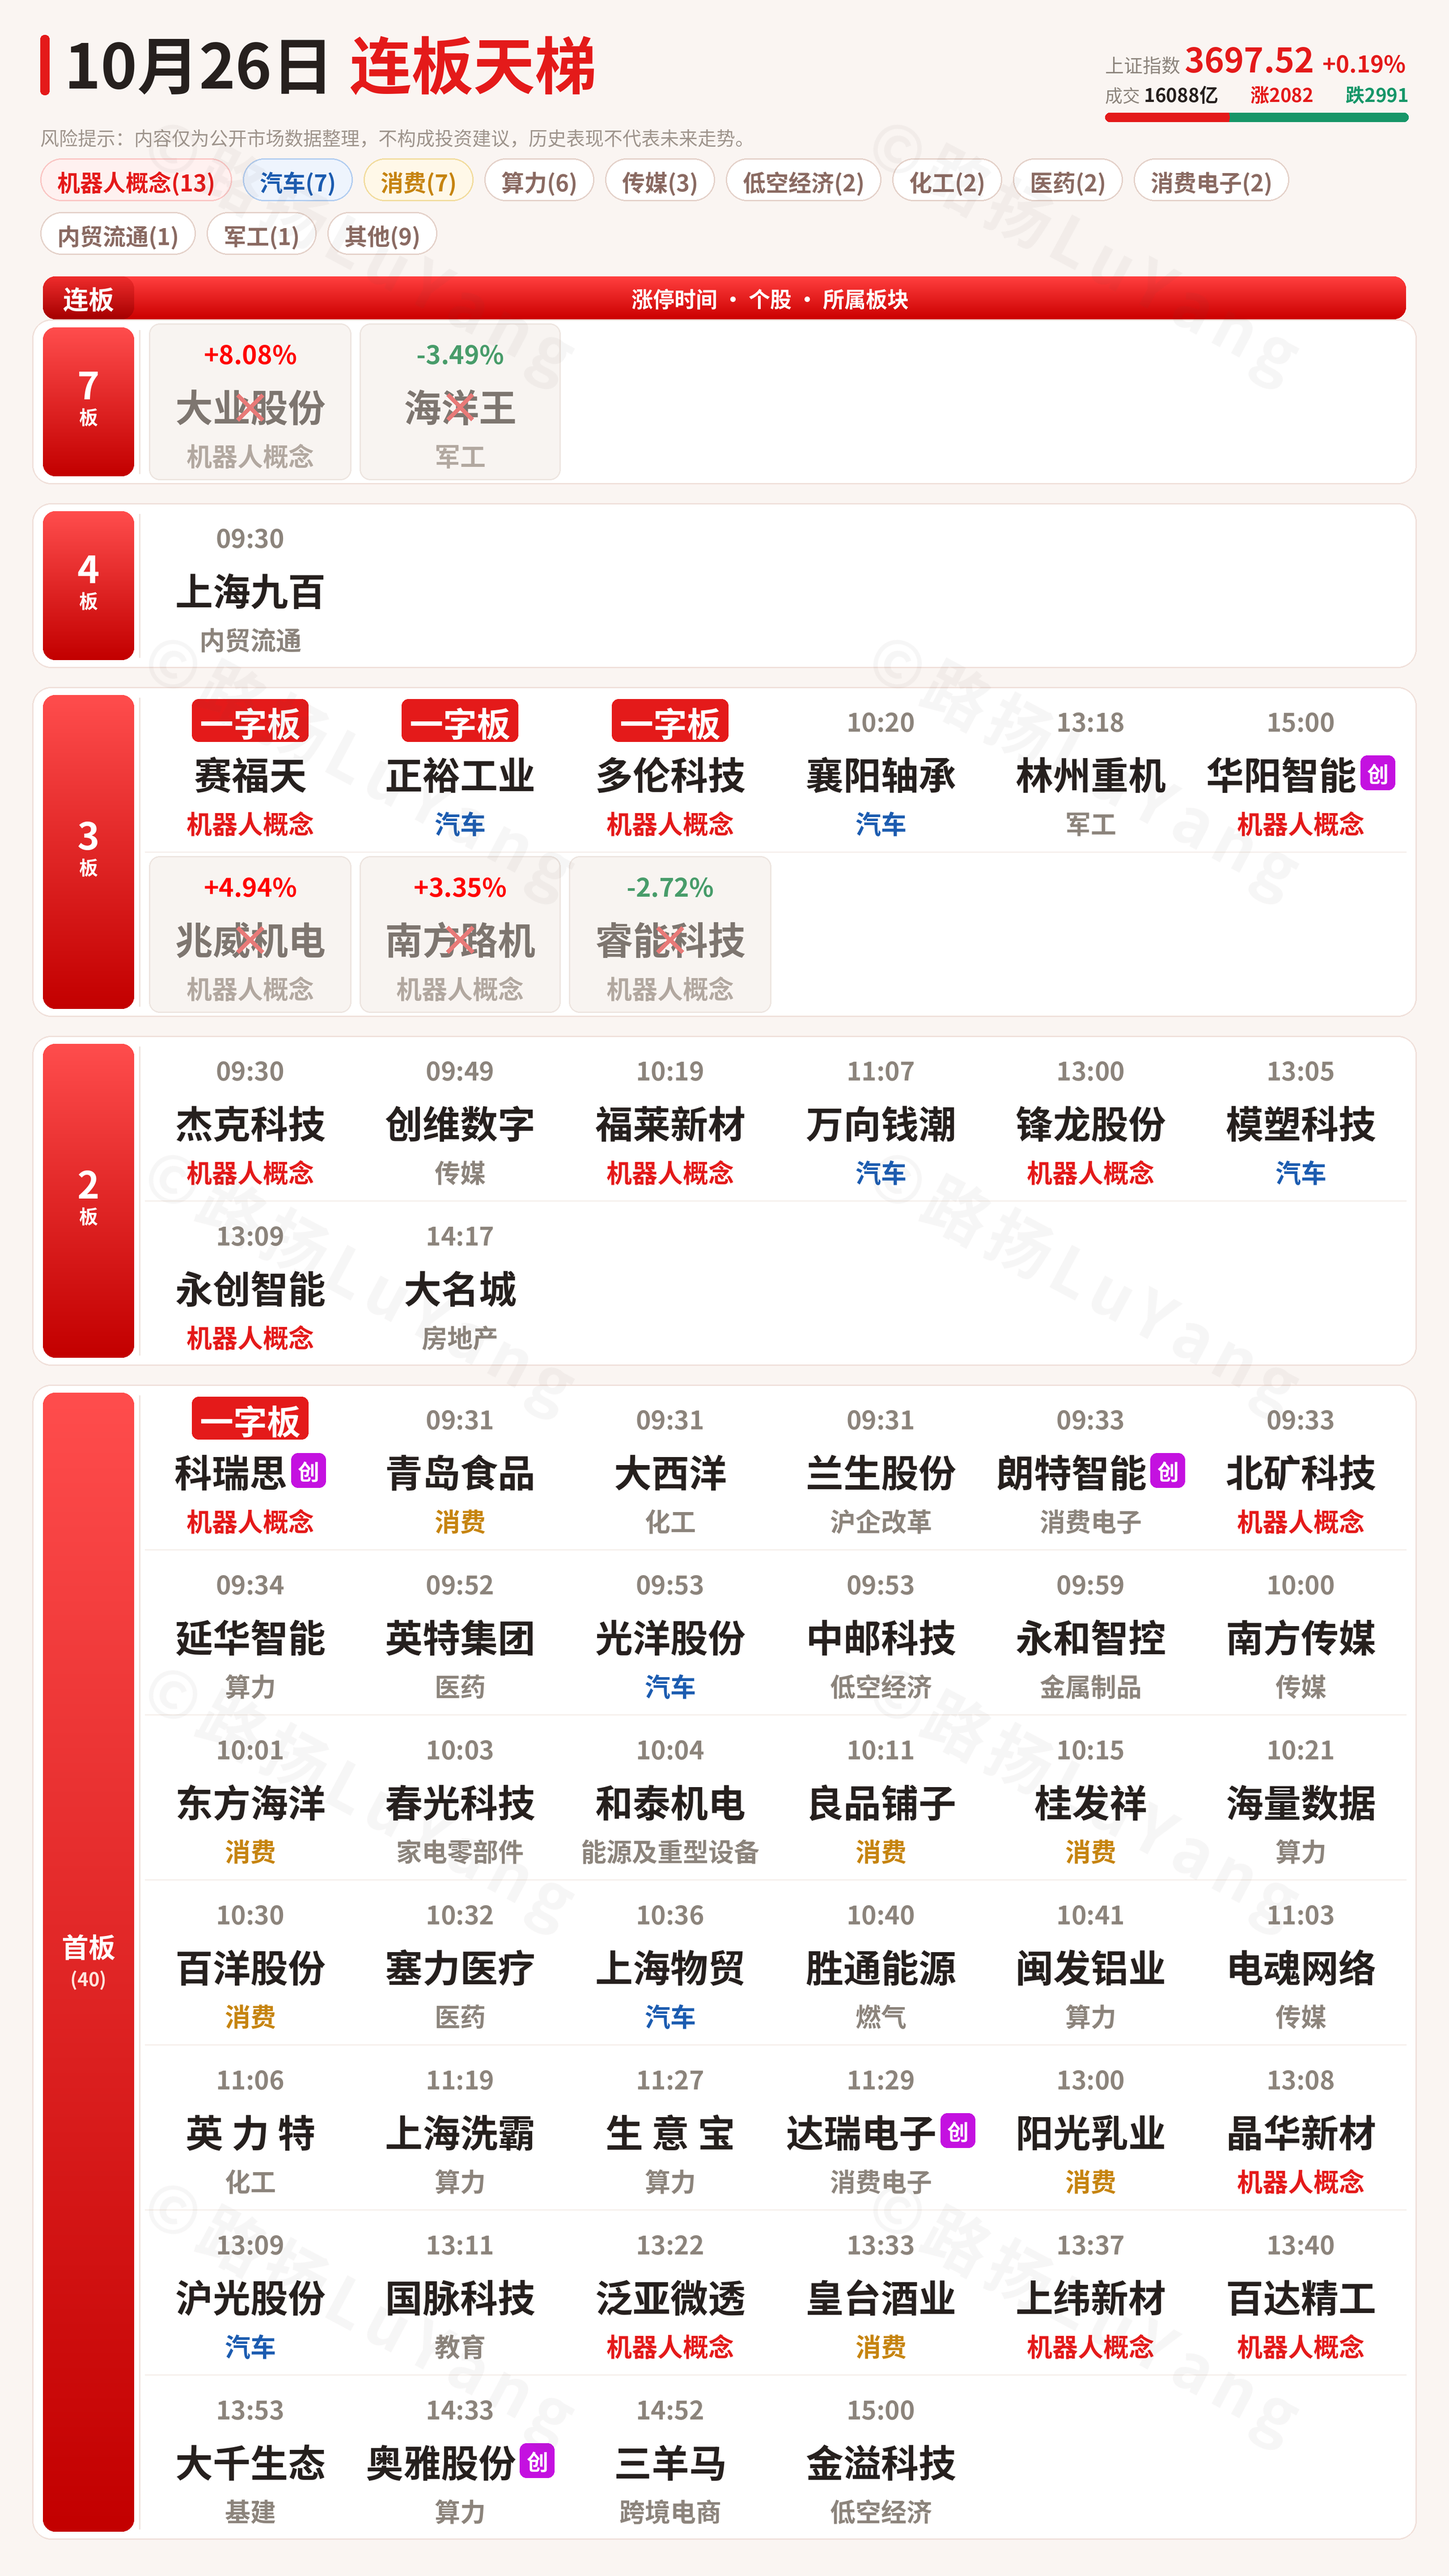
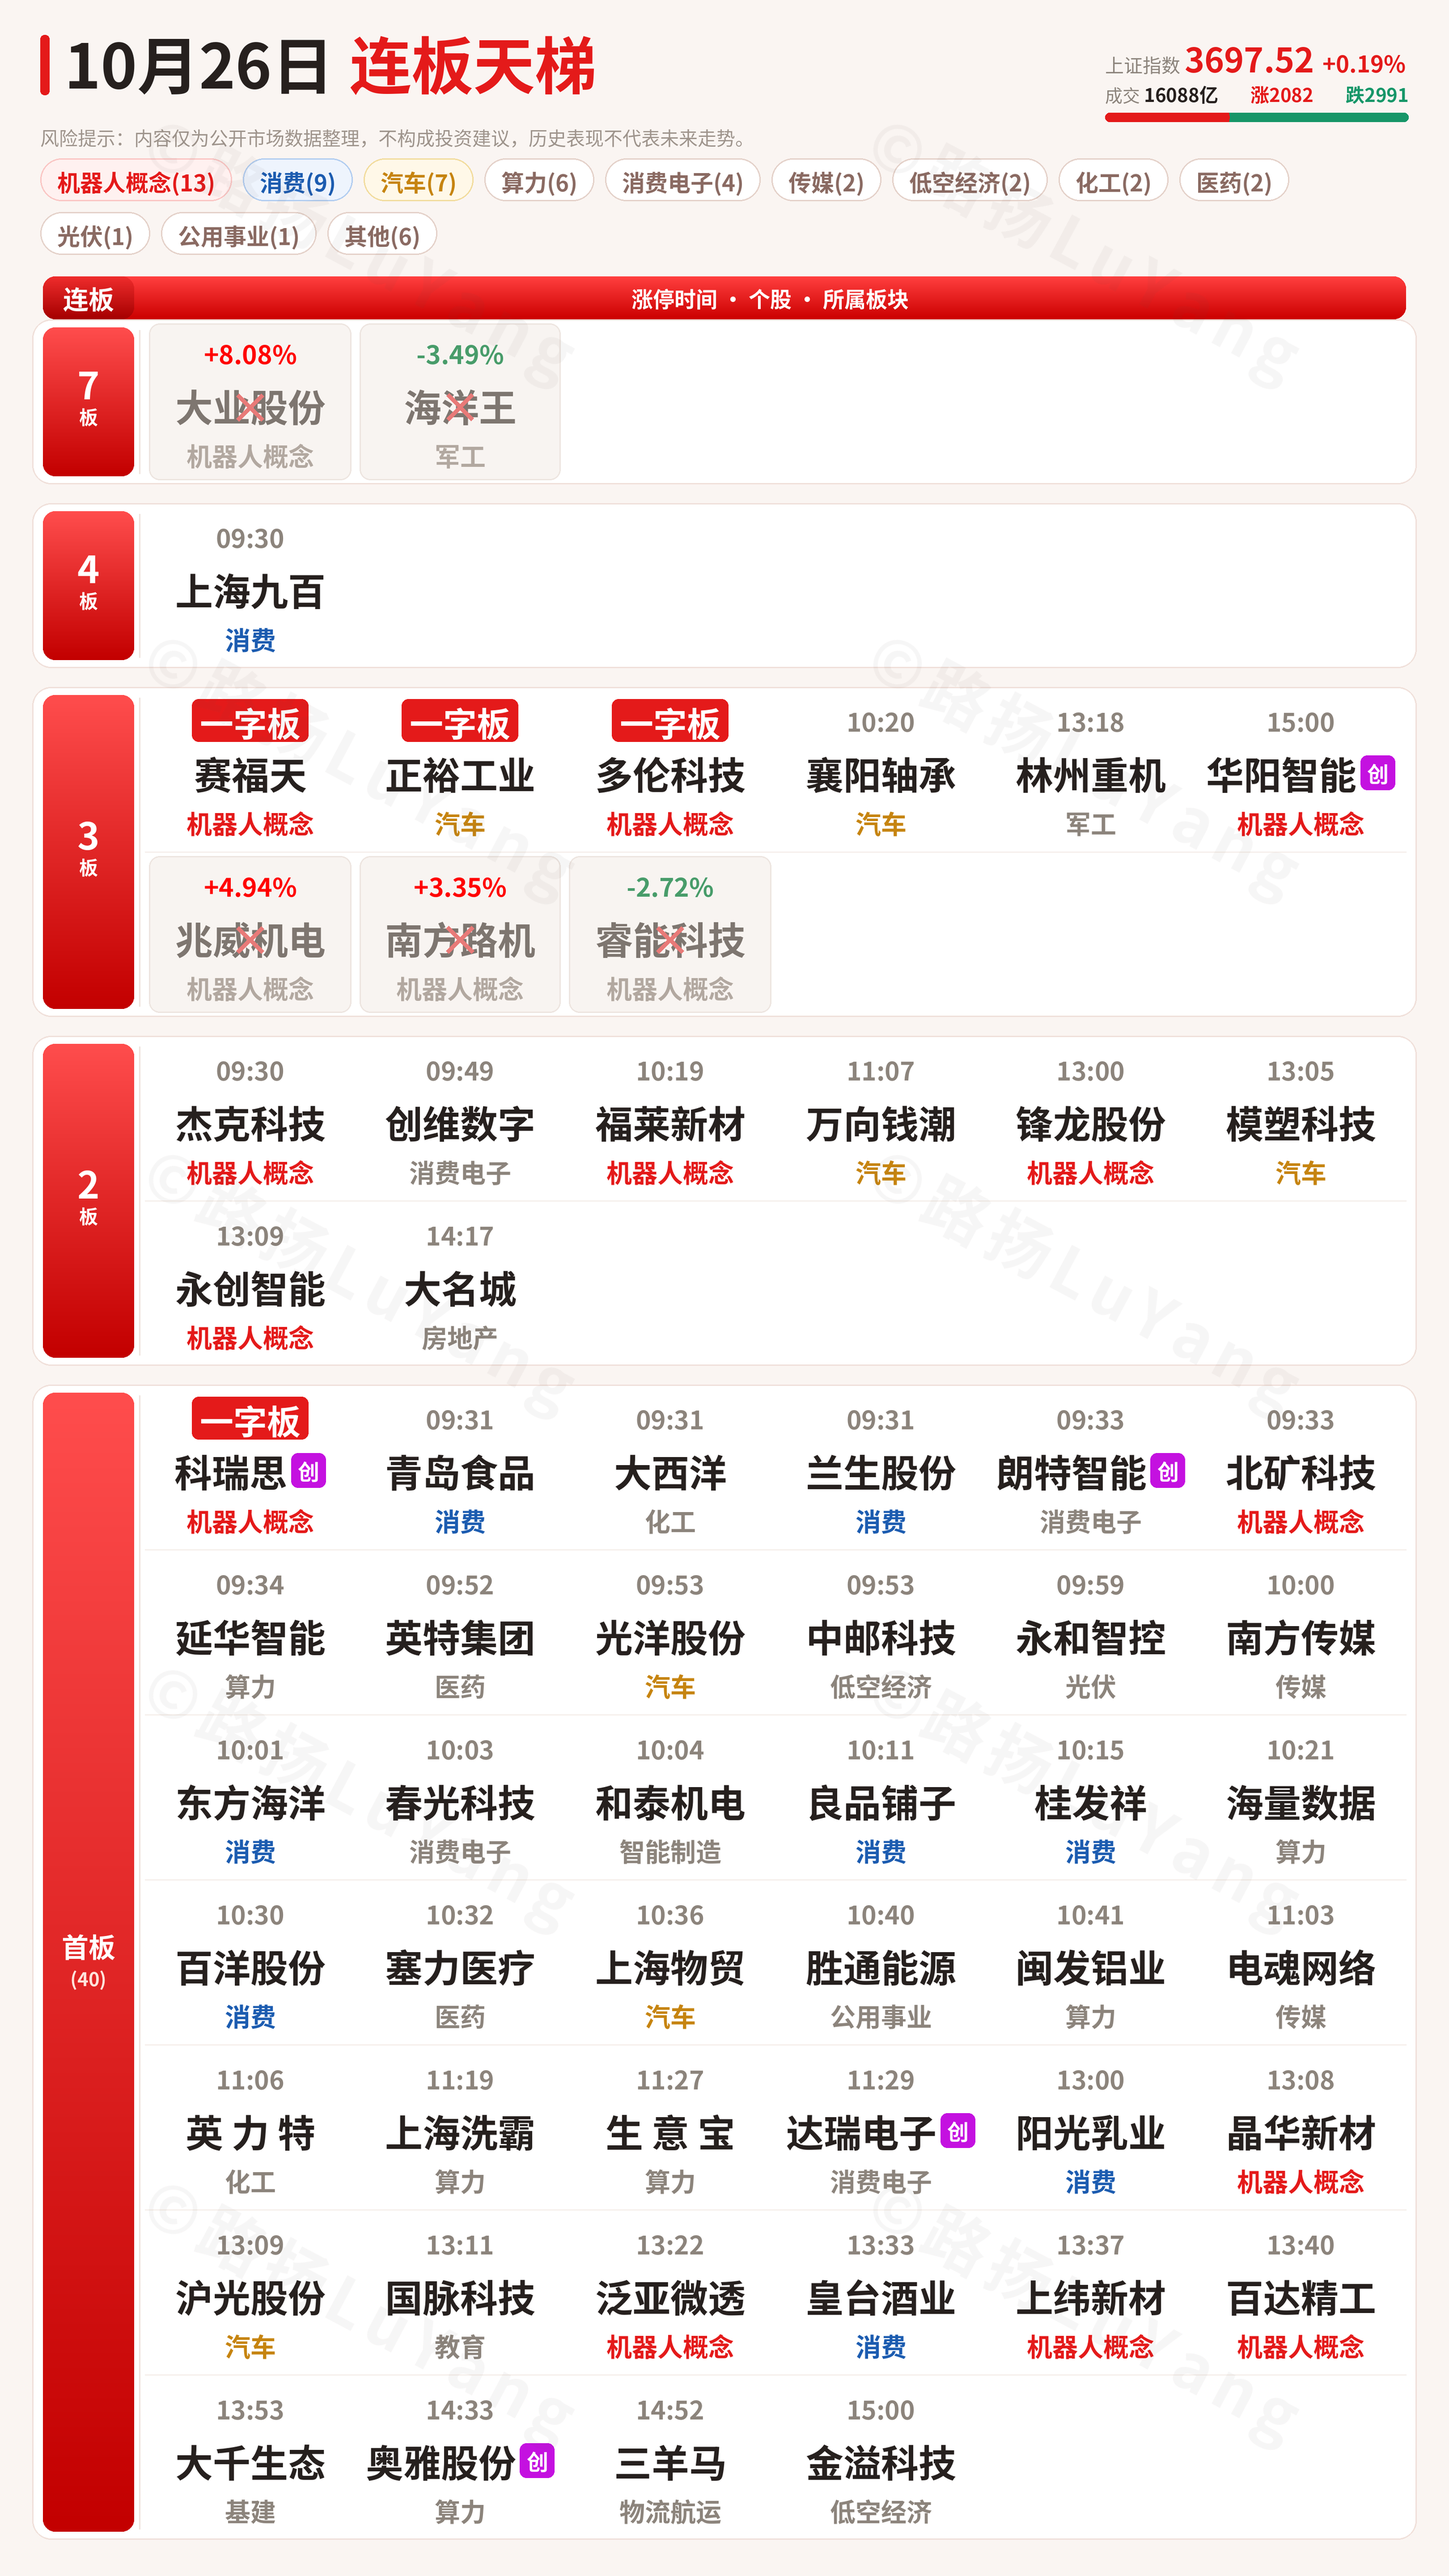
feat: update workspace

diff --git a/ladder_extract/ladder/daily_ladder.py b/ladder_extract/ladder/daily_ladder.py
@@ -300,7 +300,7 @@ def _is_blocked(nm):
 # 东财兜底用的「大伞」概念：这类概念会被大量个股共享、共现次数天然很高，
 # 但并不代表个股当日涨停原因，兜底选标签时降级处理
 FALLBACK_UMBRELLA = {
-    "电子", "机械设备", "人工智能", "新能源车", "消费", "科技", "物联网",
+    "电子", "机械设备", "人工智能", "新能源车", "科技", "物联网",
     "计算机", "计算机设备", "通用设备", "基础化工", "医药生物",
 }
 
@@ -310,6 +310,7 @@ THEME_OVERRIDE = {
     "001696": "低空经济",     # 宗申动力：低空经济核心（无人机/eVTOL 动力）
     "000099": "低空经济",     # 中信海直：低空经济（通航运营）龙头
     "601606": "军工",         # 长城军工：军工主线
+    "002724": "军工",         # 海洋王：特种照明（军工/核电照明）
 }
 
 
@@ -437,6 +438,46 @@ REASON_RULES = [
     (("DeepSeek概念", "算力概念", "光通信模块", "CPO概念"), "算力"),
 ]
 
+# ---- 细分概念/行业名 → 板块规范名（长尾补全）----
+# 同花顺「涨停原因」和东财概念里有大量一次性细分标签（MLCC粉体、空冷器、
+# 复合调味品……），直接展示会让每天板块口径不一致；这里把它们收敛到固定板块。
+# 注意：本表追加在原表之后，命中顺序仍以原表（更具体的主线）优先。
+REASON_RULES += [
+    (("TOPCon", "BC电池", "HJT", "钙钛矿", "异质结"), "光伏"),
+    (("快递", "铁路运输", "公路运输", "航空运输", "快递概念"), "物流航运"),
+    # 消费细项：把食品/零售/服饰等长尾归到消费，避免散落成一次性标签
+    (("调味品", "预制菜", "烘焙", "乳业", "零食", "乳品", "肉鸡", "生猪",
+      "养殖", "饲料", "农产品", "番茄", "甜蛋白", "餐厨", "日用陶瓷",
+      "小家电", "智能睡眠", "羊绒", "羊毛", "职业装", "服装", "纺织",
+      "零售", "商贸", "商业百货", "免税", "内贸流通", "首发经济"), "消费"),
+    (("家用电器", "家电零部件", "小米概念", "智能家居", "厨电"), "消费电子"),
+    (("MLCC", "电容", "电阻", "电感", "晶圆", "封装测试", "分立器件",
+      "碳化硅", "氮化镓", "存储芯片", "光刻", "被动元件"), "半导体"),
+    (("空冷", "液冷", "数据中心", "服务器", "光通信", "IDC", "算力租赁"), "算力"),
+    (("数据库", "数据确权", "数据资产"), "数据要素"),
+    (("减速器", "丝杠", "谐波", "空心杯", "精密传动"), "机器人概念"),
+    (("医美", "医疗美容", "抗癌", "质谱", "病理", "诊断", "中药", "疫苗"), "医药"),
+    (("染料", "中间体", "电子胶", "胶粘", "涂料", "氟化工", "磷化工", "钛白粉"), "化工"),
+    (("负极", "正极", "隔膜", "电解液", "锂电", "固态电池"), "新能源车"),
+    (("指纹识别", "光学元件", "镜头", "面板"), "消费电子"),
+    (("矿山装备", "深冷", "重型设备", "工业母机", "工程机械", "起重",
+      "输送设备"), "智能制造"),
+    (("海外工程", "基建盘活", "基础建设", "房屋建设", "工程建设", "水利"), "基建"),
+    (("燃气", "天然气", "油气", "水务", "环保", "公用事业"), "公用事业"),
+    (("AI安全",), "AI应用"),
+    # ---- 东财行业名兜底：行业名同样收敛到板块，避免画面出现「元件」「专用设备」这类裸行业 ----
+    (("元件", "被动元件", "光学光电子", "电子化学品"), "半导体"),
+    (("通用设备", "专用设备", "自动化设备", "仪器仪表", "工程机械"), "智能制造"),
+    (("家居用品", "文娱用品", "个护用品", "包装印刷", "造纸", "塑料", "橡胶"), "消费"),
+    (("厨卫电器", "照明设备", "家电零部", "白色家电", "黑色家电"), "消费电子"),
+    (("软件开发", "IT服务", "互联网服务", "计算机设备"), "人工智能"),
+    (("小金属", "贵金属", "工业金属", "金属新材料"), "有色金属"),
+    (("电池", "电源设备"), "新能源车"),
+    (("铁路公路", "航空机场", "航运港口", "快递"), "物流航运"),
+    (("环境治理", "水务及水治理"), "公用事业"),
+    (("化学原料", "化学制品", "化学纤维", "农化制品"), "化工"),
+]
+
 
 # 规则输出的规范板块名：东财概念兜底时，归一到这里的候选同样算「已识别板块」
 KNOWN_BOARDS = {out for _, out in REASON_RULES}
@@ -470,6 +511,21 @@ def pick_theme(tags):
         if raw_first is None:
             raw_first = t
     return raw_first
+
+
+def canon_label(theme, industry=""):
+    """把细碎概念 / 东财行业名归一到板块规范名：已是规范名直接用；
+    否则先按关键词表归一，再退到行业，最后保留原标签。"""
+    t = str(theme or "").strip()
+    if t and t in KNOWN_BOARDS:
+        return t
+    hit = map_theme(t) if t else None
+    if hit:
+        return hit
+    ind = str(industry or "").strip()
+    if ind:
+        return map_theme(ind) or ind
+    return t or "其他"
 
 
 def fetch_ths_reasons(ds):
@@ -561,7 +617,7 @@ def attach_themes(data):
                     score = (1 if nm in KNOWN_BOARDS else 0,                # 能归到已知板块
                              0 if nm in FALLBACK_UMBRELLA else 1,           # 大伞概念降级
                              1 if (ind and (nm in ind or ind in nm)) else 0,  # 与个股所属行业一致
-                             cnt.get(nm, 0),                                # 当日共现次数
+                             cnt.get(nm, 0) // 2,                           # 当日共现次数（≥2 才算共识）
                              -(hit if hit is not None else 999),            # 规则表越靠前越具体
                              -i)                                            # 东财原顺序
                     if best is None or score > best:
@@ -569,6 +625,10 @@ def attach_themes(data):
                 s["theme"] = pick
         except Exception as e:
             print(f"  东财概念兜底失败：{e}")
+
+    # 3) 统一口径：把细分标签/行业名收敛到规范板块名，保证每天标签一致
+    for s in alls:
+        s["theme"] = canon_label(s.get("theme"), s.get("industry"))
 
     dist = {}
     for s in stocks:
@@ -903,8 +963,8 @@ def stock_badges(s):
 
 
 def disp_ind(s):
-    """展示用板块名：优先当日热点题材，其次东财行业"""
-    return s.get("theme") or s.get("industry") or "其他"
+    """展示用板块名：优先当日热点题材，其次东财行业（统一归一到规范板块名）"""
+    return canon_label(s.get("theme"), s.get("industry"))
 
 
 # ---------------- 个股单元格（6 列紧凑表格，单页 3:4 / 9:16） ----------------
